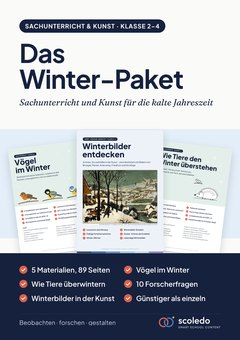
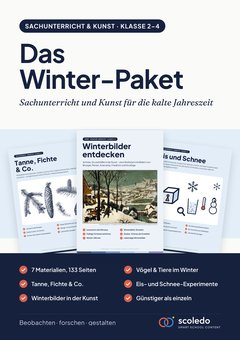
Winter-Paket: 7 Materialien (mit Tanne, Fichte & Co. und Eis und Schnee), neues Cover
Claude-Session: https://claude.ai/code/session_01M5UA2HdC27HC12fnTAnuGm

Changed region(s): [[0.0583, 0.4412, 0.4958, 0.9118], [0.5542, 0.4412, 0.9333, 0.9118]]

diff --git a/scoledo/materialien/index.html b/scoledo/materialien/index.html
@@ -121,7 +121,7 @@ h1{font-size:40px}
 <section class="cat" id="pakete" data-g="pakete" aria-labelledby="h-pakete">
 <h2 id="h-pakete">Pakete, günstiger im Bundle <span class="cnt">6</span></h2>
 <div class="grid">
-<a class="item" href="https://eduki.com/de/material/2502371/das-winter-paket-sachunterricht-kunst-klasse-2-4-voegel-im-winter-tiere-ueberwintern-forscherfragen-winterbilder" rel="noopener"><span class="cov" style="--t:var(--salbei-hell)"><img src="/links/winter-paket.jpg" alt="" width="240" height="340" loading="lazy"><span class="badge">Paket</span></span><span class="it">Das Winter-Paket Klasse 2–4</span><span class="im">5 Materialien · Sachunterricht &amp; Kunst</span><span class="id">Vögel und Tiere im Winter, Forscherfragen und Winterbilder</span></a>
+<a class="item" href="https://eduki.com/de/material/2502371/das-winter-paket-sachunterricht-kunst-klasse-2-4-voegel-im-winter-tiere-ueberwintern-forscherfragen-winterbilder" rel="noopener"><span class="cov" style="--t:var(--salbei-hell)"><img src="/links/winter-paket.jpg" alt="" width="240" height="340" loading="lazy"><span class="badge">Paket</span></span><span class="it">Das Winter-Paket Klasse 2–4</span><span class="im">7 Materialien · Sachunterricht &amp; Kunst</span><span class="id">Vögel, Tiere, Nadelbäume, Eis-Experimente, Forscherfragen und Winterbilder</span></a>
 <a class="item" href="https://eduki.com/de/material/2522364/das-fruehlings-paket-kunst-klasse-2-4-kuenstler-werkstatt-5-kunststunden-van-gogh-hiroshige-duerer-mondrian-klimt" rel="noopener"><span class="cov" style="--t:var(--salbei-hell)"><img src="/links/fruehlings-paket.jpg" alt="" width="240" height="340" loading="lazy"><span class="badge">Paket</span></span><span class="it">Das Frühlings-Paket Klasse 2–4</span><span class="im">2 Materialien · Kunst</span><span class="id">Künstler-Werkstatt und 5 Kunststunden · Van Gogh, Hiroshige, Dürer, Mondrian, Klimt</span></a>
 <a class="item" href="https://eduki.com/de/material/2335169/kuenstler-entdecken-materialpaket-kunst-klasse-2-4-kandinsky-monet-klee-franz-marc-van-gogh" rel="noopener"><span class="cov" style="--t:var(--salbei-hell)"><img src="/links/kuenstler-paket.jpg" alt="" width="240" height="340" loading="lazy"><span class="badge">Paket</span></span><span class="it">Künstler-Paket Klasse 2–4</span><span class="im">8 Werkstätten · günstiger im Paket</span><span class="id">Kandinsky, Monet, Klee, Marc, Van Gogh, Matisse, Rousseau und Arcimboldo</span></a>
 <a class="item" href="https://eduki.com/de/material/2351854/25-kunststunden-ohne-vorbereitung-materialpaket-kunst-klasse-2-4-kandinsky-monet-klee-franz-marc-van-gogh" rel="noopener"><span class="cov" style="--t:var(--salbei-hell)"><img src="/links/kunststunden-paket.jpg" alt="" width="240" height="340" loading="lazy"><span class="badge">Paket</span></span><span class="it">40 Kunststunden ohne Vorbereitung</span><span class="im">8 Sets · günstiger im Paket</span><span class="id">Acht Künstler von Kandinsky bis Arcimboldo · ideal für Vertretung</span></a>

diff --git a/links/index.html b/links/index.html
@@ -136,7 +136,7 @@ h2 .count{font-weight:600;letter-spacing:0;text-transform:none;color:#8a93a3;mar
 <h2>Pakete · günstiger im Bundle</h2>
 <a class="card" href="https://eduki.com/de/material/2502371/das-winter-paket-sachunterricht-kunst-klasse-2-4-voegel-im-winter-tiere-ueberwintern-forscherfragen-winterbilder">
 <img src="winter-paket.jpg" alt="Cover: Das Winter-Paket Klasse 2–4" width="64" height="91" loading="lazy">
-<span class="txt"><span class="t">Das Winter-Paket Klasse 2–4</span><span class="s" style="display:block">Vögel und Tiere im Winter, Forscherfragen und Winterbilder</span><span class="pill">5 Materialien · Sachunterricht &amp; Kunst</span></span><span class="arrow">→</span></a>
+<span class="txt"><span class="t">Das Winter-Paket Klasse 2–4</span><span class="s" style="display:block">Vögel, Tiere, Nadelbäume, Eis-Experimente, Forscherfragen und Winterbilder</span><span class="pill">7 Materialien · Sachunterricht &amp; Kunst</span></span><span class="arrow">→</span></a>
 <a class="card" href="https://eduki.com/de/material/2522364/das-fruehlings-paket-kunst-klasse-2-4-kuenstler-werkstatt-5-kunststunden-van-gogh-hiroshige-duerer-mondrian-klimt">
 <img src="fruehlings-paket.jpg" alt="Cover: Das Frühlings-Paket Klasse 2–4" width="64" height="91" loading="lazy">
 <span class="txt"><span class="t">Das Frühlings-Paket Klasse 2–4</span><span class="s" style="display:block">Künstler-Werkstatt und 5 Kunststunden · Van Gogh bis Klimt</span><span class="pill">2 Materialien · Kunst</span></span><span class="arrow">→</span></a>
